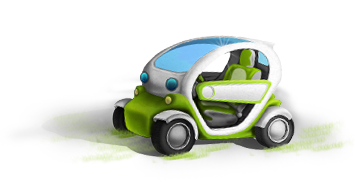
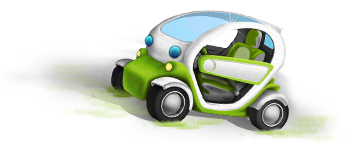
Add the electric car prop.

diff --git a/app/assets/stylesheets/scenarios/_modern.sass b/app/assets/stylesheets/scenarios/_modern.sass
@@ -175,6 +175,11 @@
       .solar-panels
         @include modern-prop(solar-panels, 643px, 162px, 944px, 98px)
 
+      // The electric car.
+
+      .electric-car
+        @include modern-prop(electric-car, 345px, 143px, 700px, 50px)
+
       // The sun overlay on the right of the header; needs to be displayed
       // above the other layers so that the glow / lens flare isn't occluded.
 
